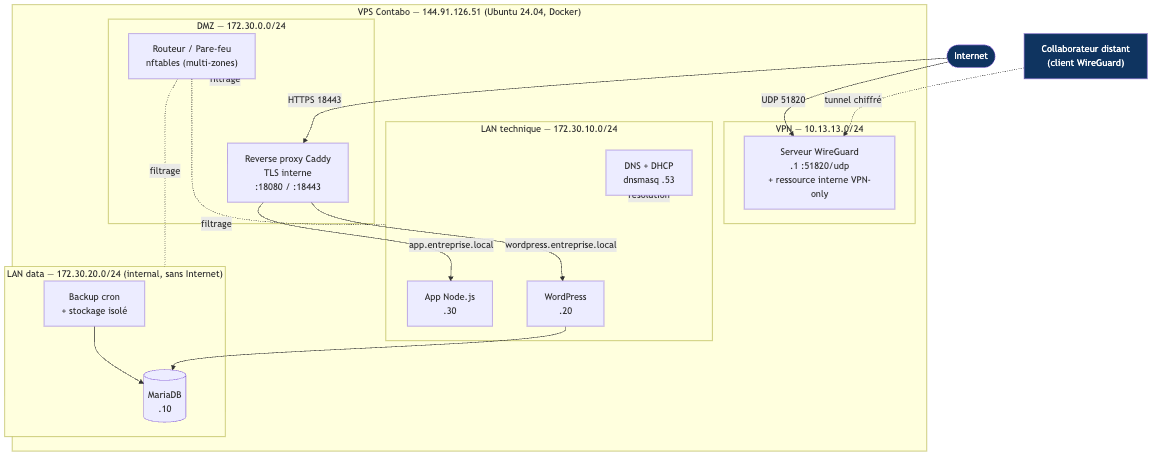
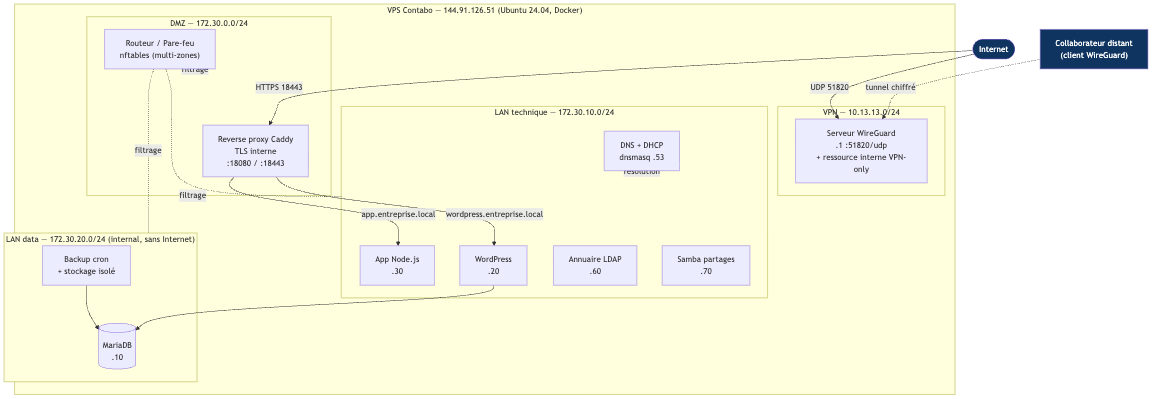
bonus deploye: schema + preuves + doc maj (LDAP + Samba, 9 services)

diff --git a/docs/evidence.html b/docs/evidence.html
@@ -63,4 +63,25 @@ restauration : docker exec infra-backup /restore.sh /backups/db_&lt;TS&gt;.sql.g
 intranet-app        traefik/whoami                  <span class="ok">Up</span>   (aucun port publié — joignable seulement via le tunnel à <span class="p">10.13.13.1:80</span>)
 Peers générés : hugo (10.13.13.2), shakil (10.13.13.3) — clé + PresharedKey (auth forte)</pre></div>
 
+<h2>5. BONUS — Annuaire LDAP + partage de fichiers Samba</h2>
+<div class="term"><div class="bar"><span class="dot r"></span><span class="dot y"></span><span class="dot g"></span><span class="title">docker logs infra-ldap  &  infra-samba</span></div>
+<pre><span class="c"># OpenLDAP (annuaire central, base dc=entreprise,dc=local)</span>
+Add bootstrap schemas...
+Add image bootstrap ldif...
+<span class="ok">Add custom bootstrap ldif...</span>   -> OU people/groups + utilisateurs hugo, shakil, alice
+slapd starting   (389/tcp, 636/tcp — interne uniquement)
+
+<span class="c"># Samba (serveur de fichiers, partages : partage-entreprise + technique)</span>
+<span class="ok">Added user hugo.</span>
+<span class="ok">Added user shakil.</span>
+<span class="ok">Added user alice.</span>
+smbd version 4.12.2 started.
+daemon_ready: smbd finished starting up and ready to serve connections
+<span class="c"># non exposé publiquement -> accès via le réseau interne / VPN</span></pre></div>
+
+<h2>6. Stack complète — 9 conteneurs actifs</h2>
+<div class="term"><div class="bar"><span class="dot r"></span><span class="dot y"></span><span class="dot g"></span><span class="title">docker compose ps</span></div>
+<pre>reverse-proxy <span class="ok">Up</span>  wordpress <span class="ok">Up</span>  nodeapp <span class="ok">Up</span>  db <span class="ok">Up</span>  dns <span class="ok">Up</span>
+router-fw <span class="ok">Up</span>  backup <span class="ok">Up</span>  ldap <span class="ok">Up</span>  samba <span class="ok">Up (healthy)</span></pre></div>
+
 </body></html>

diff --git a/docs/schema.html b/docs/schema.html
@@ -17,6 +17,8 @@ flowchart TB
             WP["WordPress<br/>.20"]
             NODE["App Node.js<br/>.30"]
             DNS["DNS + DHCP<br/>dnsmasq .53"]
+            LDAP["Annuaire LDAP<br/>.60"]
+            SMB["Samba partages<br/>.70"]
         end
 
         subgraph DATA["LAN data — 172.30.20.0/24 (internal, sans Internet)"]
@@ -44,6 +46,7 @@ flowchart TB
     FW -. filtrage .- DATA
 
     classDef ext fill:#0f3460,color:#fff;
+
 </div>
 <script>mermaid.initialize({startOnLoad:true,theme:'default',securityLevel:'loose'});</script>
 </body></html>

diff --git a/docs/DOCUMENTATION-TECHNIQUE.md b/docs/DOCUMENTATION-TECHNIQUE.md
@@ -104,6 +104,24 @@ docker exec infra-backup ls -lh /backups           # inventaire
 docker exec infra-backup /restore.sh /backups/db_<TS>.sql.gz   # restauration
 ```
 
+## 7bis. Bonus — Annuaire LDAP + partage de fichiers Samba
+
+- **Annuaire central** : `ldap` (OpenLDAP, base `dc=entreprise,dc=local`). Les unités
+  d'organisation (`people`, `groups`) et les utilisateurs (hugo, shakil, alice) sont
+  créés au démarrage via `bonus/ldap/bootstrap.ldif`. Service interne (389/636, non exposé).
+- **Serveur de fichiers** : `samba` (Samba), partages `partage-entreprise` et `technique`,
+  utilisateurs gérés et journalisation des accès (`docker logs infra-samba`).
+  Non exposé publiquement → accès via le réseau interne ou le VPN.
+- **Gestion des utilisateurs** :
+```bash
+docker logs infra-ldap        # import des comptes (custom ldif)
+docker exec infra-ldap ldapsearch -x -b dc=entreprise,dc=local "(objectClass=inetOrgPerson)"
+docker logs infra-samba       # comptes Samba + accès (logs)
+```
+- Accès au partage depuis un poste (via VPN) : `smb://<hôte>/partage-entreprise`
+  (Finder macOS : Aller → Se connecter au serveur).
+- *Piste d'amélioration : authentification Samba directement adossée à LDAP (back-end ldapsam).*
+
 ## 8. Sécurité
 
 - **Cloisonnement réseau** : 3 zones, LAN data sans accès Internet (`internal`).

diff --git a/docs/SUPPORT-ORAL.md b/docs/SUPPORT-ORAL.md
@@ -36,6 +36,11 @@ accès distant sécurisé aux ressources internes.
 - Activer le tunnel WireGuard sur le poste, ouvrir `http://10.13.13.1` (ressource interne).
 - Couper le VPN → la ressource devient injoignable. Authentification : clé + PSK par utilisateur.
 
+### 6bis. Bonus — Annuaire LDAP + partage Samba (1 min) — *si le temps le permet*
+- Annuaire OpenLDAP `dc=entreprise,dc=local` : utilisateurs hugo/shakil/alice (gestion centralisée).
+- Partage de fichiers Samba (`partage-entreprise`, `technique`) accessible via le réseau interne / VPN.
+- Montrer `docker logs infra-ldap` (import des comptes) et un montage `smb://` depuis le poste.
+
 ### 7. Bilan & ouverture (1 min)
 - Ce qui marche, sécurité, et pistes : load balancing, Let's Encrypt (domaine réel),
   annuaire LDAP + partage Samba (bonus), monitoring.

diff --git a/README.md b/README.md
@@ -13,6 +13,10 @@ Stack Docker reproductible déployable sur n'importe quel hôte Linux avec Docke
    (`wordpress.entreprise.local`, `app.entreprise.local`).
 3. **Sauvegarde automatisée** — service `backup` (cron) : dump MariaDB + archive des fichiers
    vers un **stockage isolé** (`backup_storage`), rétention 10, **restauration testée** (`restore.sh`).
+4. **Bonus** — **annuaire OpenLDAP** (`dc=entreprise,dc=local`, utilisateurs hugo/shakil/alice)
+   + **partage de fichiers Samba** (`partage-entreprise`, `technique`), accès interne/VPN.
+
+Total : **9 services** (`docker compose ps`).
 
 ## Démarrage
 ```bash

diff --git a/docs/schema-reseau.md b/docs/schema-reseau.md
@@ -16,6 +16,8 @@ flowchart TB
             WP["WordPress<br/>.20"]
             NODE["App Node.js<br/>.30"]
             DNS["DNS + DHCP<br/>dnsmasq .53"]
+            LDAP["Annuaire LDAP<br/>.60"]
+            SMB["Samba partages<br/>.70"]
         end
 
         subgraph DATA["LAN data — 172.30.20.0/24 (internal, sans Internet)"]
